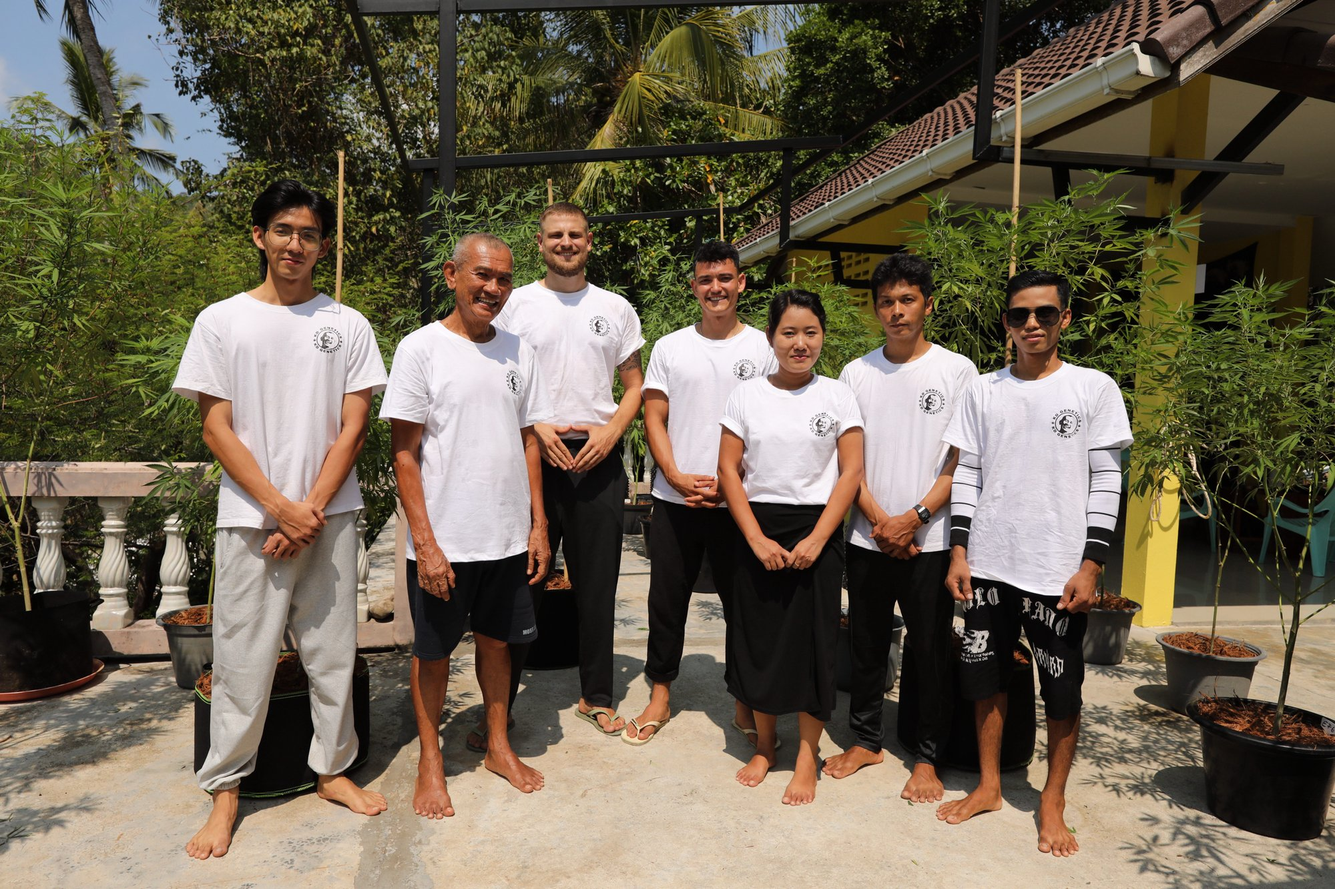
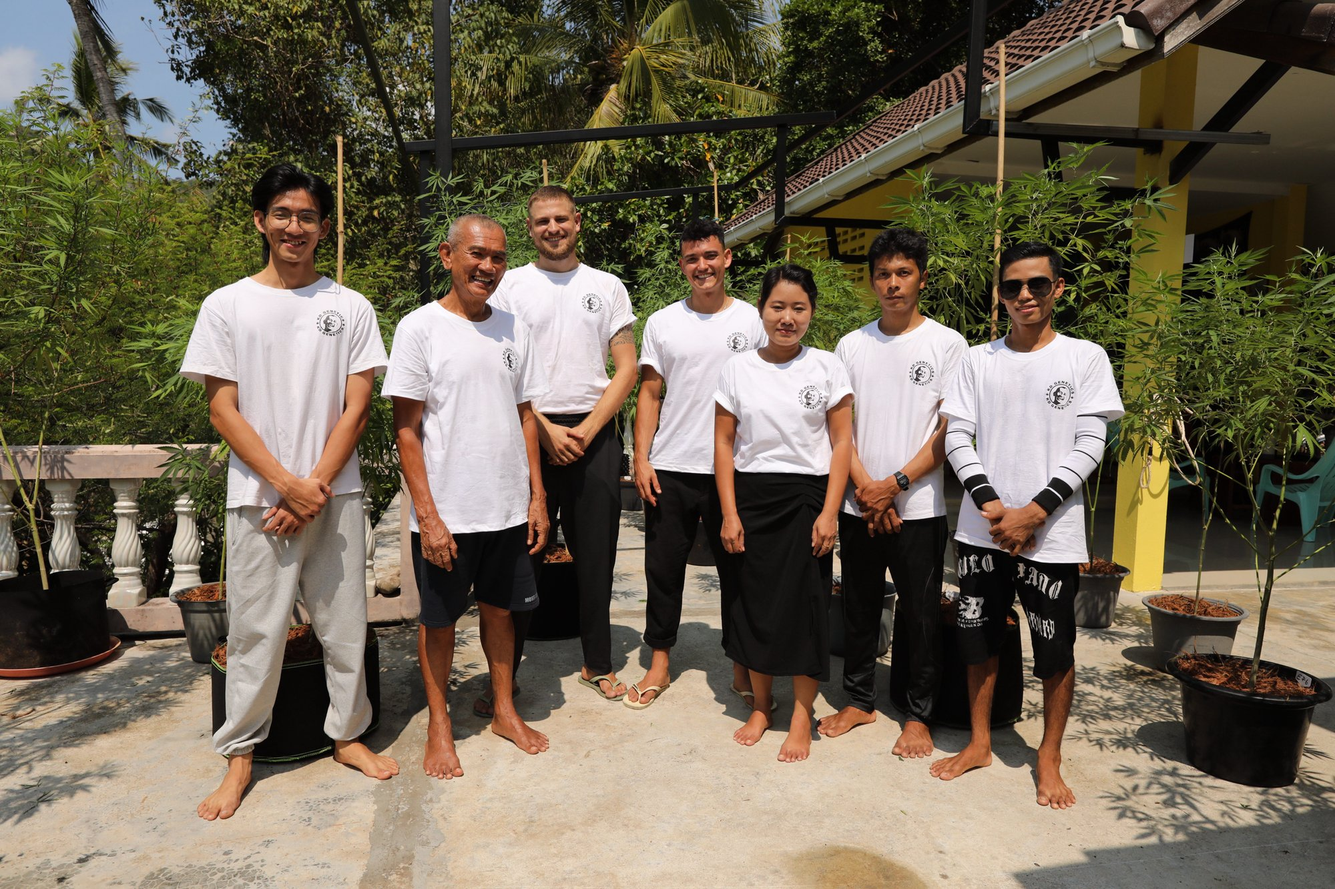
preview: feedback round 2 — team carousel staff-only, Hella Jelly to KD, drone aerial
Team section
- Group hero swapped to 5D4_2496 (full crew of 7).
- Caption updated to L→R: Khant · Mr KD · Daniel · Kevin · Pee Wee · Pee Wee · Pichet.
- Individual portraits now staff-only (4): Pee Wee (drying), Khant
  (shop), Pichet (watering with ocean view), Pee Wee (working soil
  with seedlings). Mr KD and Kevin removed from carousel — they're
  featured elsewhere; Kevin appeared 2× before.
- Grid now 4 cols. Names captioned under each portrait.

Strain library
- Hella Jelly #2 moved from Termsook → KD Outdoor (it's KD's outdoor
  sun-grown). Counts now: KD Outdoor 6, Termsook Collective 6.

Drone aerial
- /property-aerial.jpg added (DRONE 7 — house in jungle).
- Used in Tour section ("the land you'll walk — from above") and the
  Slowdown link section (Kevin's explicit pick).

Beyond Flower / Apparel
- Apparel category card image swapped from t-shirt flat lay to
  /apparel-kevin.jpg (Kevin in plants, KD tee).

Other
- /hash-hero.jpg replaced with 5D4_2814 (single hash brick).

diff --git a/app/preview/page.tsx b/app/preview/page.tsx
@@ -71,6 +71,7 @@ const kdOutdoorStrains = [
   { name: "KD Black Tiger", img: "/strain-kd-black-tiger.jpg" },
   { name: "KD Blacktip",    img: "/strain-kd-blacktip.jpg" },
   { name: "Cheese Cookies", img: "/strain-cheese-cookies.jpg" },
+  { name: "Hella Jelly #2", img: "/strain-hella-jelly.jpg" },
 ];
 
 const termsookIndoorStrains = [
@@ -80,22 +81,20 @@ const termsookIndoorStrains = [
   { name: "Banana Conda",   img: "/strain-banana-conda.jpg" },
   { name: "Kiwi",           img: "/strain-kiwi.jpg" },
   { name: "Unicorn Poop",   img: "/strain-unicorn-poop.jpg" },
-  { name: "Hella Jelly #2", img: "/strain-hella-jelly.jpg" },
 ];
 
 const beyondFlower = [
-  { title: "Oils",    line: "Mr. KD's craft cannabis oils.",   img: "/oil-hero.jpg",    href: "/menu#oils" },
-  { title: "Hash",    line: "Hand-washed, pressed on the farm.", img: "/hash-hero.jpg", href: "/menu#hash" },
-  { title: "Rosin",   line: "Solventless, small batch.",        img: "/hash-hero.jpg", href: "/menu#rosin" },
-  { title: "Apparel", line: "What we wear on the farm.",        img: "/tee-1-front.jpg", href: "#apparel" },
+  { title: "Oils",    line: "Mr. KD's craft cannabis oils.",     img: "/oil-hero.jpg",       href: "/menu#oils" },
+  { title: "Hash",    line: "Hand-washed, pressed on the farm.", img: "/hash-hero.jpg",      href: "/menu#hash" },
+  { title: "Rosin",   line: "Solventless, small batch.",         img: "/hash-hero.jpg",      href: "/menu#rosin" },
+  { title: "Apparel", line: "What we wear on the farm.",         img: "/apparel-kevin.jpg",  href: "#apparel" },
 ];
 
 const team = [
-  { img: "/team-1.jpg" },
-  { img: "/team-2.jpg" },
-  { img: "/team-3.jpg" },
-  { img: "/team-4.jpg" },
-  { img: "/team-5.jpg" },
+  { img: "/team-1.jpg",        name: "Pee Wee" },     // woman, hanging buds
+  { img: "/team-2.jpg",        name: "Khant" },        // shop, jar + tweezers
+  { img: "/team-watering.jpg", name: "Pichet" },       // watering, ocean view
+  { img: "/team-soil.jpg",     name: "Pee Wee" },      // soil / seedlings
 ];
 
 const mediaArticles = [
@@ -402,30 +401,33 @@ export default function HomePage() {
           </div>
 
           {/* Group hero */}
-          <div className="aspect-[16/10] rounded-2xl overflow-hidden bg-[#EAE6DE]/40 mb-3 max-w-5xl mx-auto">
+          <div className="aspect-[3/2] rounded-2xl overflow-hidden bg-[#EAE6DE]/40 mb-3 max-w-5xl mx-auto">
             <Image
               src="/team-group.jpg"
-              alt="The KD Genetics team — Kevin, Mr KD, Daniel, Khant, Pee Wee, Pee Wee, Pichet"
+              alt="The full KD Genetics team — Khant, Mr KD, Daniel, Kevin, Pee Wee, Pee Wee, Pichet"
               width={2000}
               height={1333}
               className="w-full h-full object-cover"
             />
           </div>
-          <p className="text-center text-[#6B6B6B]/80 text-[11px] font-light italic max-w-3xl mx-auto mb-12">
-            Kevin · Mr KD · Daniel · Khant (shop) · Pee Wee (farm + house) · Pee Wee (farm) · Pichet (farm)
+          <p className="text-center text-[#6B6B6B]/80 text-[11px] font-light italic max-w-3xl mx-auto mb-14">
+            The full crew — left to right: Khant · Mr KD · Daniel · Kevin · Pee Wee · Pee Wee · Pichet
           </p>
 
-          {/* Individual portraits row */}
-          <div className="grid grid-cols-2 md:grid-cols-5 gap-4 max-w-5xl mx-auto">
-            {team.map((p, i) => (
-              <div key={i} className="aspect-[3/4] rounded-xl overflow-hidden bg-[#EAE6DE]/40">
-                <Image
-                  src={p.img}
-                  alt={`KD Genetics team member`}
-                  width={1200}
-                  height={1600}
-                  className="w-full h-full object-cover"
-                />
+          {/* Four staff portraits — Mr KD and the founders are featured elsewhere */}
+          <div className="grid grid-cols-2 md:grid-cols-4 gap-5 max-w-4xl mx-auto">
+            {team.map((p) => (
+              <div key={p.img} className="space-y-2">
+                <div className="aspect-[3/4] rounded-xl overflow-hidden bg-[#EAE6DE]/40">
+                  <Image
+                    src={p.img}
+                    alt={p.name}
+                    width={1200}
+                    height={1600}
+                    className="w-full h-full object-cover"
+                  />
+                </div>
+                <p className="text-center text-[#1E1E1E] text-sm font-medium">{p.name}</p>
               </div>
             ))}
           </div>
@@ -678,10 +680,10 @@ export default function HomePage() {
           <div className="max-w-4xl mx-auto mb-20">
             <div className="aspect-video rounded-2xl overflow-hidden border border-white/10">
               <Image
-                src="/drone-jungle.jpg"
-                alt="The KD Genetics farm — aerial"
+                src="/property-aerial.jpg"
+                alt="The KD Genetics property from above"
                 width={2000}
-                height={1125}
+                height={1497}
                 className="w-full h-full object-cover"
               />
             </div>
@@ -802,7 +804,7 @@ export default function HomePage() {
               Indoor-grown by our friends at Termsook Collective.
             </p>
           </div>
-          <div className="grid grid-cols-2 md:grid-cols-4 lg:grid-cols-7 gap-x-4 gap-y-10 mb-24">
+          <div className="grid grid-cols-2 md:grid-cols-3 lg:grid-cols-6 gap-x-4 gap-y-10 mb-24">
             {termsookIndoorStrains.map((s) => (
               <Link key={s.name} href="/menu#flower" className="space-y-3 group">
                 <div className="aspect-square rounded-xl overflow-hidden bg-[#1E1E1E]">
@@ -1048,10 +1050,10 @@ export default function HomePage() {
           <div className="grid md:grid-cols-2 gap-10 items-center">
             <div className="aspect-[4/3] rounded-2xl overflow-hidden bg-[#EAE6DE]/40">
               <Image
-                src="/slowdown-front.jpg"
-                alt="Slow Down Homestay — Tanote Bay courtyard"
-                width={1600}
-                height={1066}
+                src="/property-aerial.jpg"
+                alt="Slow Down Homestay — nestled in the Tanote Bay jungle"
+                width={2000}
+                height={1497}
                 className="w-full h-full object-cover"
               />
             </div>
